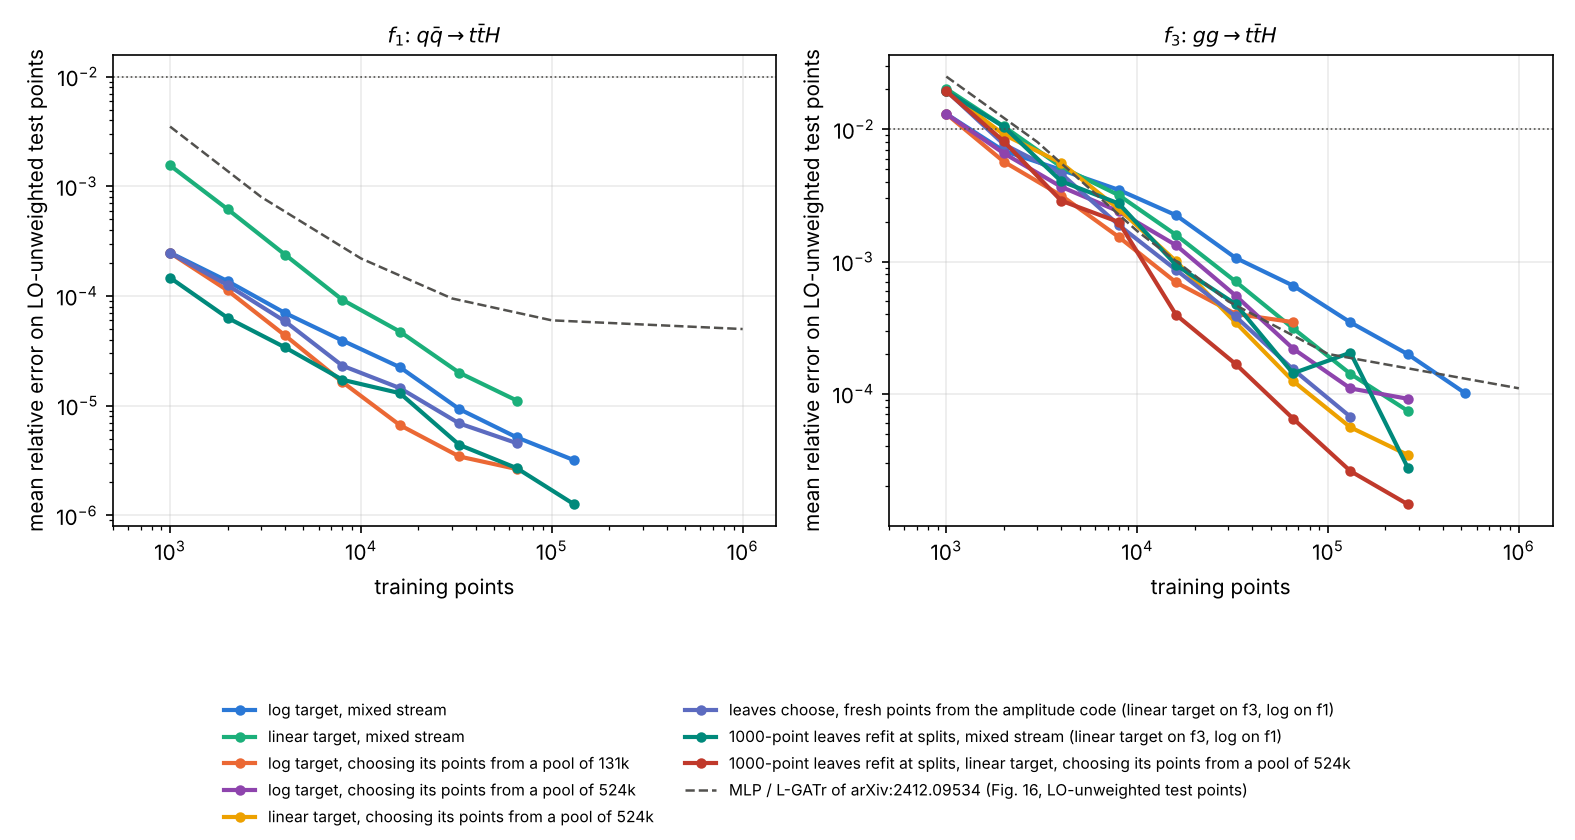
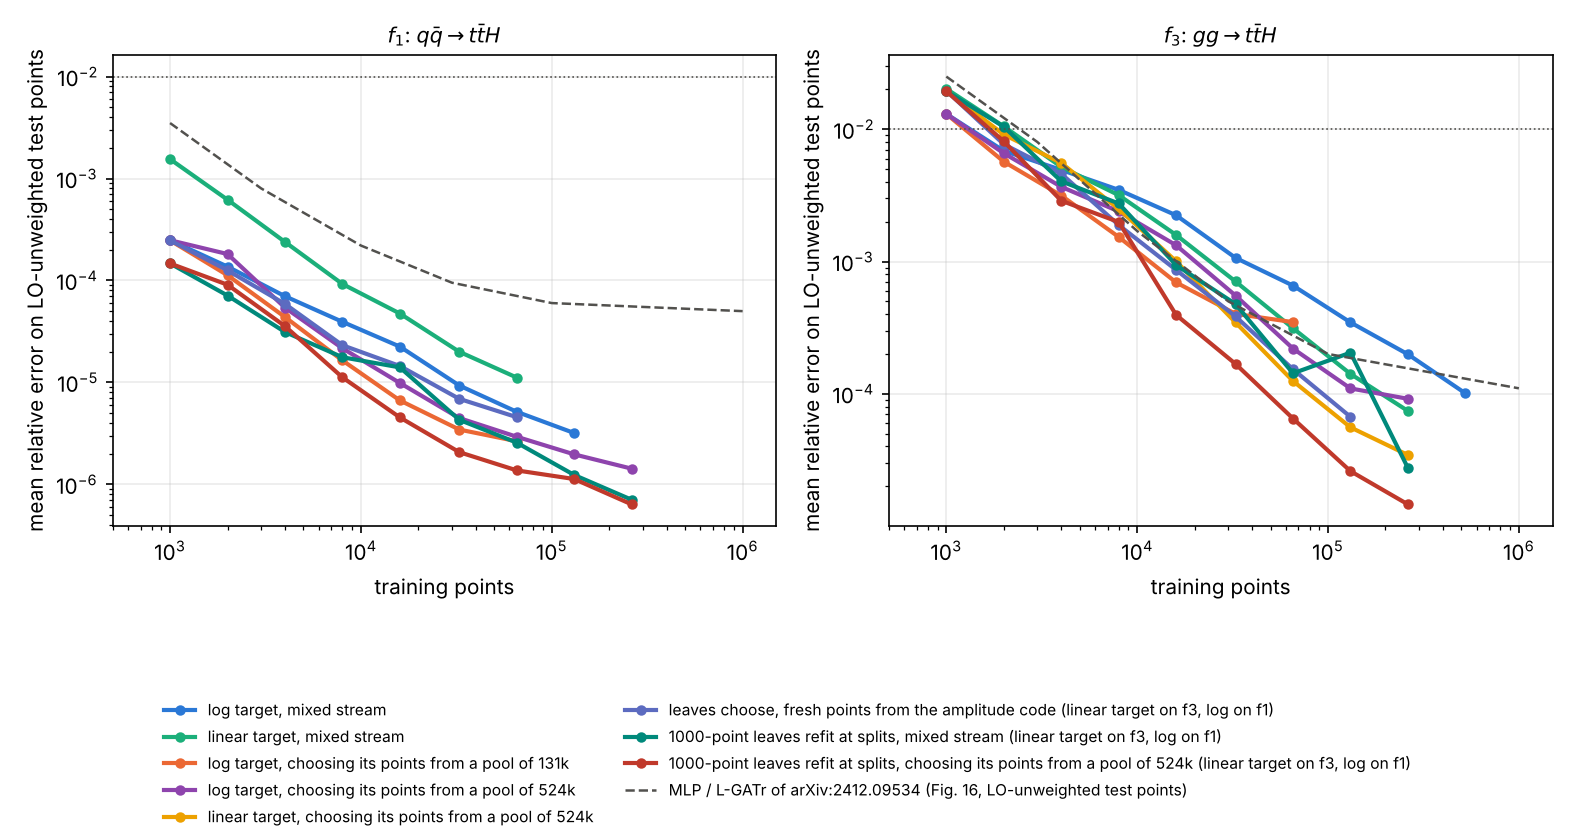
Add the f1 counterpart of the best f3 configuration to the write-up and the figure
Claude-Session: https://claude.ai/code/session_0153hpVKJ5JPDq5CRhfaL7QL

diff --git a/examples/plot_tth_results.py b/examples/plot_tth_results.py
@@ -65,7 +65,7 @@ FIGURES = {
         ("sweep_scaleLinAcqBig2_{ch}", "acq", "linear target, choosing its points from a pool of 524k"),
         ("sweep_leafSum75_{ch}", "leafacq", "leaves choose, fresh points from the amplitude code (linear target on f3, log on f1)"),
         ("sweep_knNbar1000splitBig_{ch}|sweep_rhoSplit1000_{ch}", "tree", "1000-point leaves refit at splits, mixed stream (linear target on f3, log on f1)"),
-        ("sweep_knNbar1000splitAcq_{ch}", "acq", "1000-point leaves refit at splits, linear target, choosing its points from a pool of 524k"),
+        ("sweep_knNbar1000splitAcq_{ch}", "acq", "1000-point leaves refit at splits, choosing its points from a pool of 524k (linear target on f3, log on f1)"),
     ],
 }
 # The first two figures use the phase-space measure alone as the weight (no pseudo-PDF factor), the third the paper's f

diff --git a/examples/BENCHMARK_RESULTS_tth_amplitude.md b/examples/BENCHMARK_RESULTS_tth_amplitude.md
@@ -78,7 +78,9 @@ every row.
   tree refitted only at splits reaches 1.3e-6, 44 times lower, and both curves
   keep falling as N⁻¹ where the networks' flatten (5.6e-5 → 4.6e-5 from 10⁵ to
   10⁶ points). Choosing its points, the 300-point tree is at 6.7e-6 at 16 000,
-  where the networks are at 1.6e-4.
+  where the networks are at 1.6e-4; with 1000-point leaves refit at splits it
+  reaches 7.1e-7 on the plain stream and 6.4e-7 choosing its points at 262 144,
+  80 times below the networks (Section 2.11).
 * **f3 is within a factor 2 of the networks at 131 072 points on the plain
   stream, and ahead of them beyond that.** The 300-point tree on the mixed stream
   reaches 3.5e-4 at 131 072 against their 1.7e-4, and crosses their curve at about
@@ -527,6 +529,23 @@ on the log target was the log target's), so differences above 5 % below are real
   at 65 536, 2.6e-5 at 131 072 and 1.5e-5 at 262 144, against 3.4e-5 for the
   300-point tree and 4, 6 and 10 times below the networks, at 16 ms per point.
   These are the best f3 numbers of this study (`eps_vs_points_targets.png`).
+* **The f1 counterpart** (log target, enlarged uu data set, 262 144 points):
+
+  | f1, log target | 65 536 | 131 072 | 262 144 | ms per point |
+  |---|---|---|---|---|
+  | 300-point leaves, mixed stream | 5.2e-6 | 3.2e-6 | – | 50 |
+  | 300-point leaves, choosing its points from a pool of 131k | 2.7e-6 | – | – | |
+  | 300-point leaves, choosing its points from a pool of 524k | 2.9e-6 | 2.0e-6 | 1.4e-6 | 50–54 |
+  | 1000-point leaves refit at splits, mixed stream | 2.6e-6 | 1.2e-6 | 7.1e-7 | 32–34 |
+  | 1000-point leaves refit at splits, choosing its points from a pool of 524k | 1.4e-6 | 1.1e-6 | 6.4e-7 | 34 |
+  | networks, Fig. 16 | 6.8e-5 | 5.6e-5 | 5.3e-5 | |
+
+  The 1000-point leaves give the same factor 2 over 300-point ones as on f3,
+  but the acquisition adds little on f1 and less with N (3 × over the stream at
+  16 000, 1.1 × at 131 072 and 262 144), and the larger pool brings nothing
+  (2.9e-6 against 2.7e-6 at 65 536): f1 has no narrow peaks for the point
+  selection to find, so once the leaves are large enough the plain stream is as
+  good. Both end 75–83 times below the networks at 262 144, at 34 ms per point.
   One caveat of refitting only at splits shows in that run: at 131 072 the mean
   error rises to 2.0e-4 from 1.4e-4 at 65 536 while the median keeps falling; a
   leaf whose hyperparameters were fitted badly at its split keeps them until its
